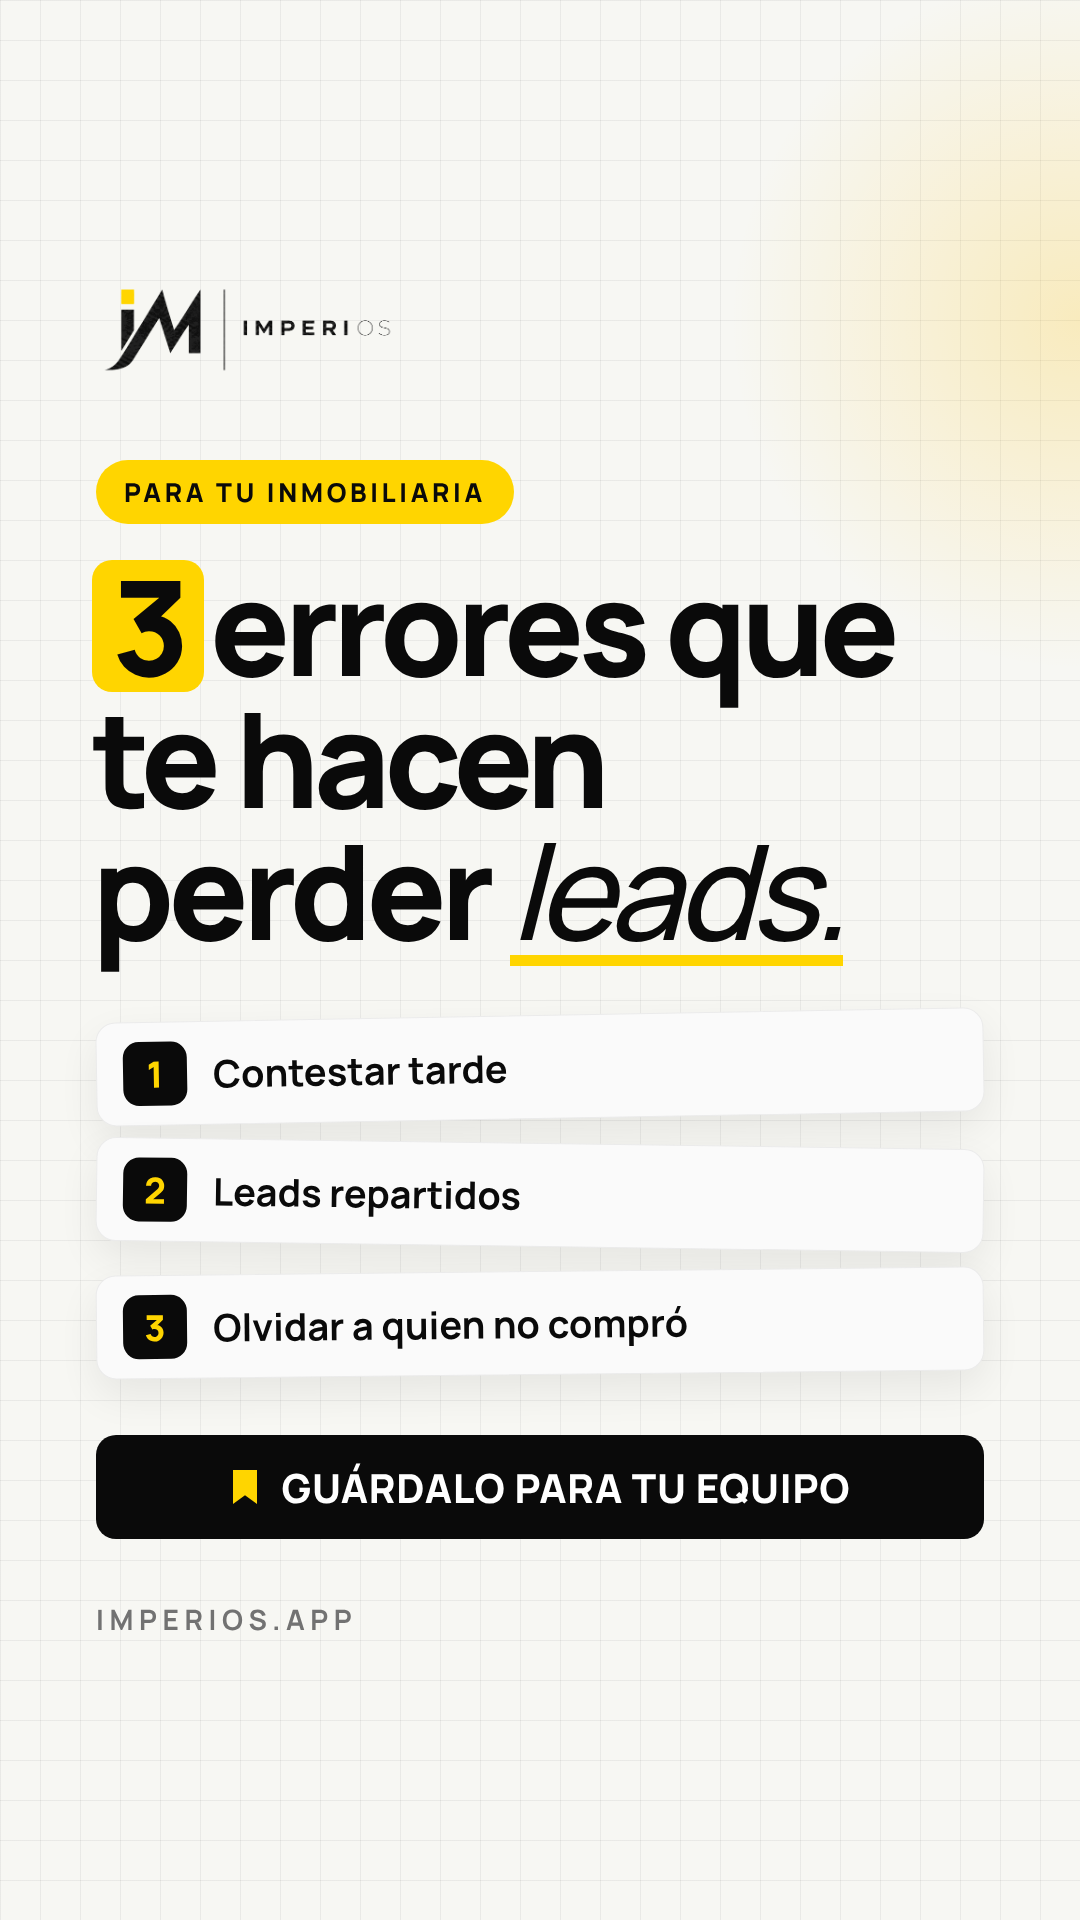
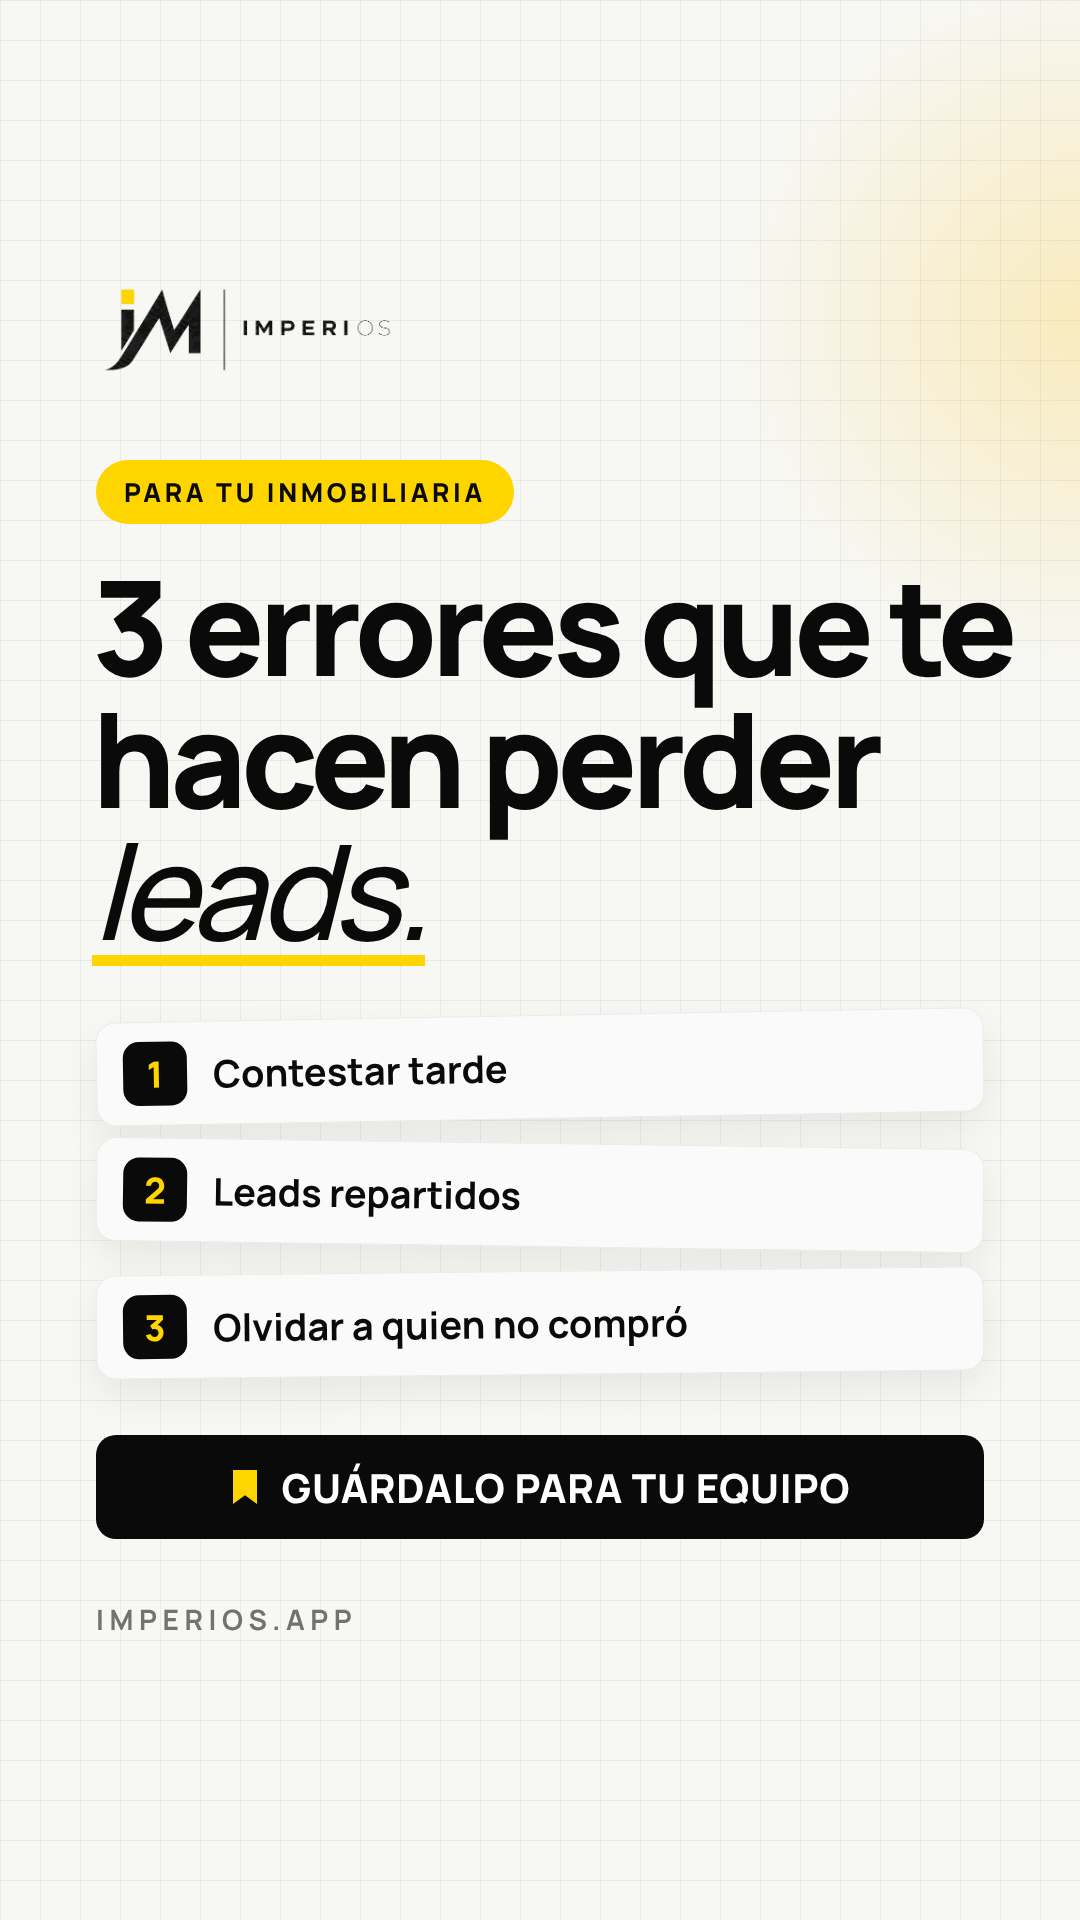
R2: el «3» del titular sin fondo amarillo (vídeo y portada)
Claude-Session: https://claude.ai/code/session_01GUwAx98LwDLChJJ4cX9B1a

Changed region(s): [[0.0611, 0.2812, 0.9472, 0.5312]]

diff --git a/ADV/ImperiOS Ad/preview/src/portada-r2.html b/ADV/ImperiOS Ad/preview/src/portada-r2.html
@@ -34,7 +34,7 @@ h1 .n { display: inline-block; background: var(--y); padding: 0 20px; border-rad
 <div class="glow"></div>
 <div class="abs logo"><img src="../../assets_in/brand-kit/assets/logo-imperios-navbar.svg" alt="ImperiOS"></div>
 <div class="abs tag">PARA TU INMOBILIARIA</div>
-<h1><span class="n">3</span>errores que te hacen perder <em class="u">leads.</em></h1>
+<h1>3 errores que te hacen perder <em class="u">leads.</em></h1>
 <div class="row" style="top:1015px;transform:rotate(-1deg)"><b>1</b>Contestar tarde</div>
 <div class="row" style="top:1143px;transform:rotate(.8deg)"><b>2</b>Leads repartidos</div>
 <div class="row" style="top:1271px;transform:rotate(-.6deg)"><b>3</b>Olvidar a quien no compró</div>

diff --git a/ADV/ImperiOS Ad/preview/src/reel-r2.html b/ADV/ImperiOS Ad/preview/src/reel-r2.html
@@ -179,7 +179,6 @@ function sceneIO(el, t, a, b) {
 }
 
 const WT_ = words($('#ktT'), [[['3', 'y3'], ['errores']], [['que'], ['te'], ['hacen']], [['perder'], ['leads.', 'it']]]);
-WT_[0].style.color = 'var(--ink-950)'; WT_[0].style.background = 'var(--y)'; WT_[0].style.padding = '0 18px'; WT_[0].style.borderRadius = '18px'; WT_[0].style.marginRight = '6px';
 const W1 = words($('#kt1'), [[['Contestar']], [['tarde.', 'it']]]);
 const W1b = words($('#kt1b'), [[['La'], ['primera'], ['que'], ['responde']], [['se'], ['lleva'], ['la'], ['conversación.']]]);
 const W2 = words($('#kt2'), [[['Leads']], [['repartidos.', 'it']]]);
